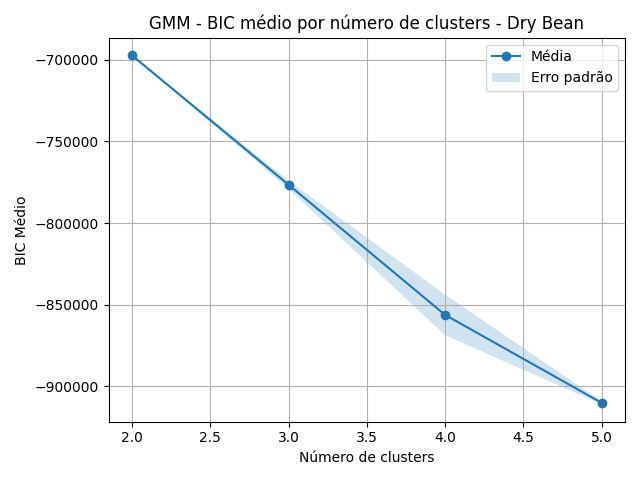
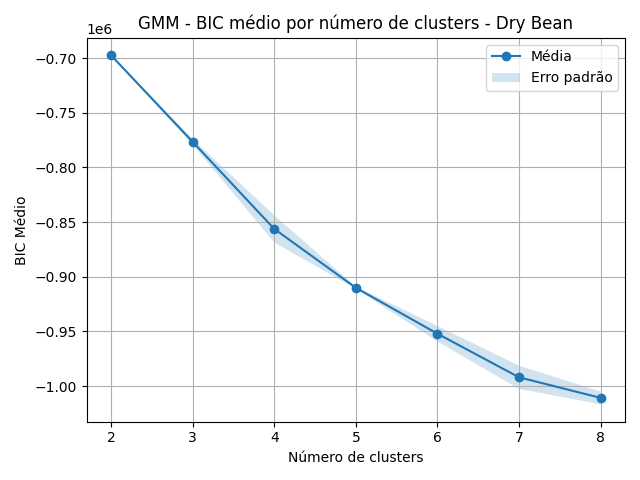
imagens

diff --git a/main.py b/main.py
@@ -81,7 +81,6 @@ def plot_pca_clusters(X, labels, title, filename):
 
 
 def cluster_supervised_classifier(X_train, y_train, X_test, clustering_model):
-    print("Treinando modelo de clustering...")
     if isinstance(clustering_model, AgglomerativeClustering):
         clustering_model.fit(X_train)
         cluster_labels = clustering_model.labels_
@@ -95,7 +94,6 @@ def cluster_supervised_classifier(X_train, y_train, X_test, clustering_model):
 
         pred_clusters = np.argmin(cdist(X_test, centroids), axis=1)
     else:
-        print("Treinando modelo de clustering...")
         clustering_model.fit(X_train)
         if hasattr(clustering_model, "labels_"):
             cluster_labels = clustering_model.labels_
@@ -104,7 +102,6 @@ def cluster_supervised_classifier(X_train, y_train, X_test, clustering_model):
         pred_clusters = clustering_model.predict(X_test)
     cluster_class_map = {}
     for cluster in np.unique(cluster_labels):
-        print(f"Mapeando cluster {cluster} para rótulo...")
         indices = np.where(cluster_labels == cluster)[0]
         majority_label = Counter(y_train[indices]).most_common(1)[0][0]
         cluster_class_map[cluster] = majority_label
@@ -115,7 +112,7 @@ def cluster_supervised_classifier(X_train, y_train, X_test, clustering_model):
 if __name__ == "__main__":
     resultados = {}
     seeds = range(1, 31)  # aumente para range(1, 31) depois de testar
-    max_k = 5
+    max_k = 8
     for dataset_path, dataset_name in [
         ("Adult.mat", "Adult"),
         ("Dry_bean.mat", "Dry Bean"),
@@ -124,7 +121,6 @@ if __name__ == "__main__":
         X, y = load_dataset_from_mat(dataset_path)
         resultados[dataset_name] = {}
 
-        print("Normalizando dados...")
         scaler = StandardScaler()
         X_scaled = scaler.fit_transform(X)
         ks = list(range(2, max_k + 1))
@@ -153,15 +149,12 @@ if __name__ == "__main__":
                 # Agglomerative
                 print(f"Executando Agglomerative para k={k}, seed={s}...")
                 agglo = AgglomerativeClustering(n_clusters=k)
-                print("Ajustando AgglomerativeClustering...")
                 labels = agglo.fit_predict(X_scaled)
                 if len(np.unique(labels)) > 1 and len(np.unique(labels)) < len(
                     X_scaled
                 ):
-                    print("Calculando silhouette score...")
                     score = silhouette_score(X_scaled, labels)
                 else:
-                    print("Silhouette score não calculável, atribuindo NaN...")
                     score = np.nan
                 silhouettes.append(score)
                 # GMM
